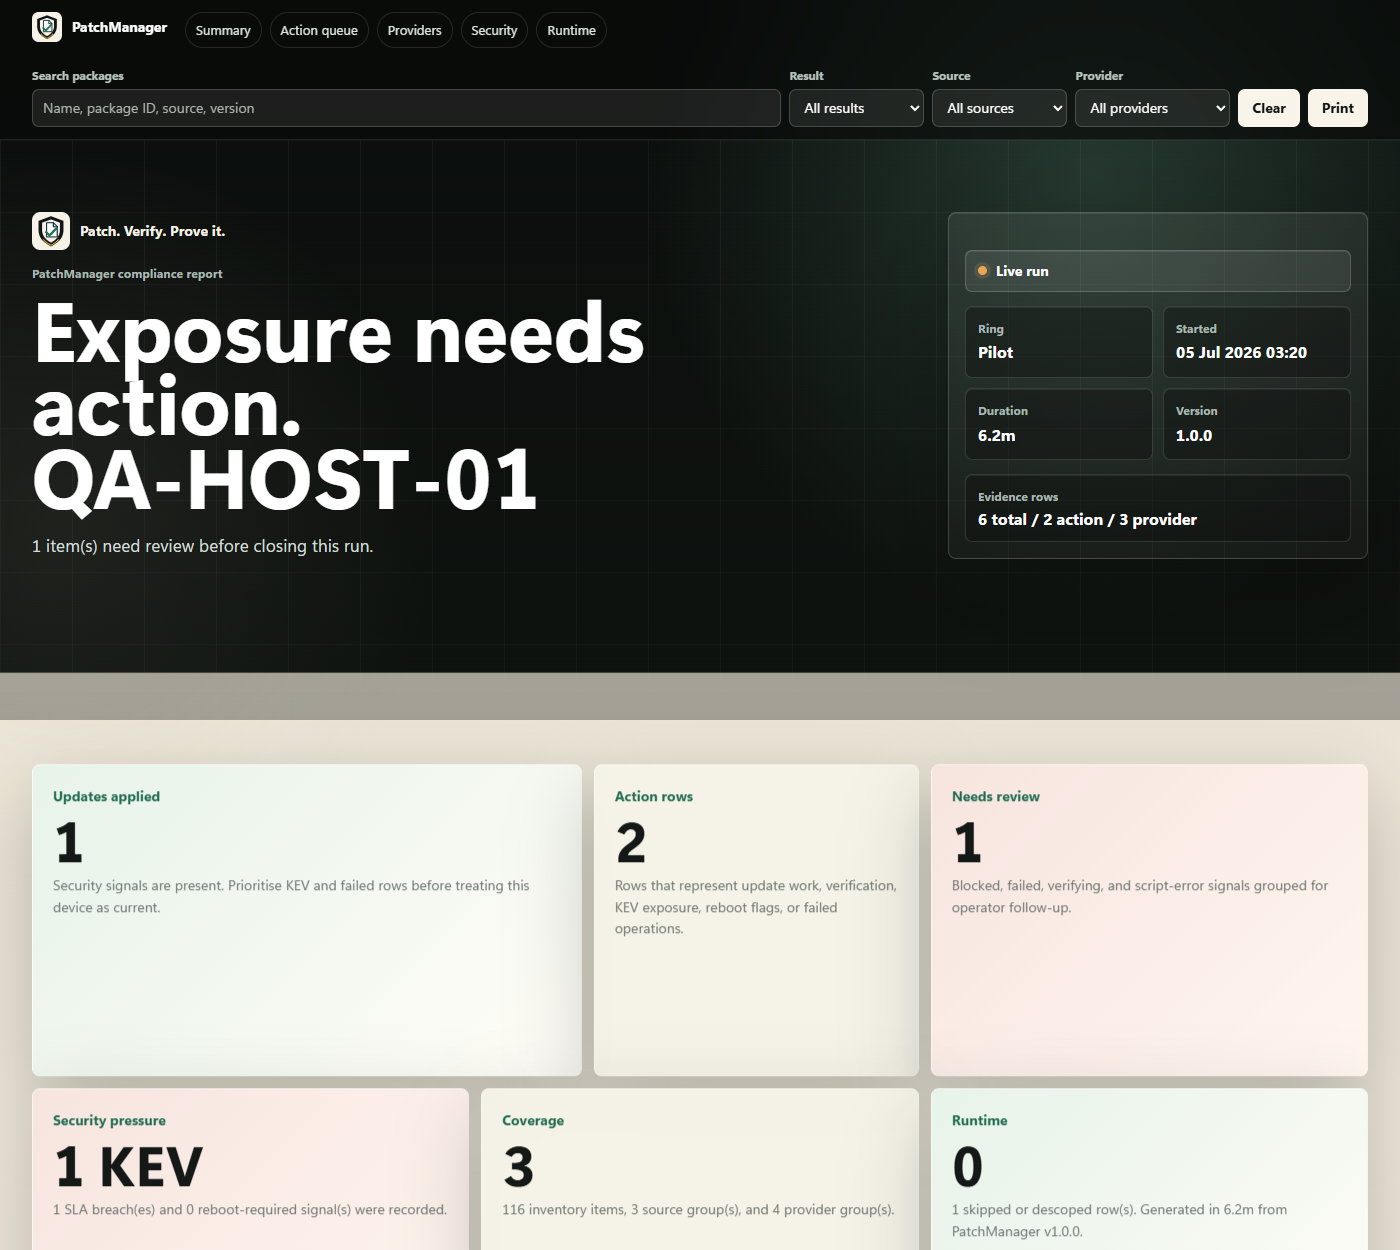
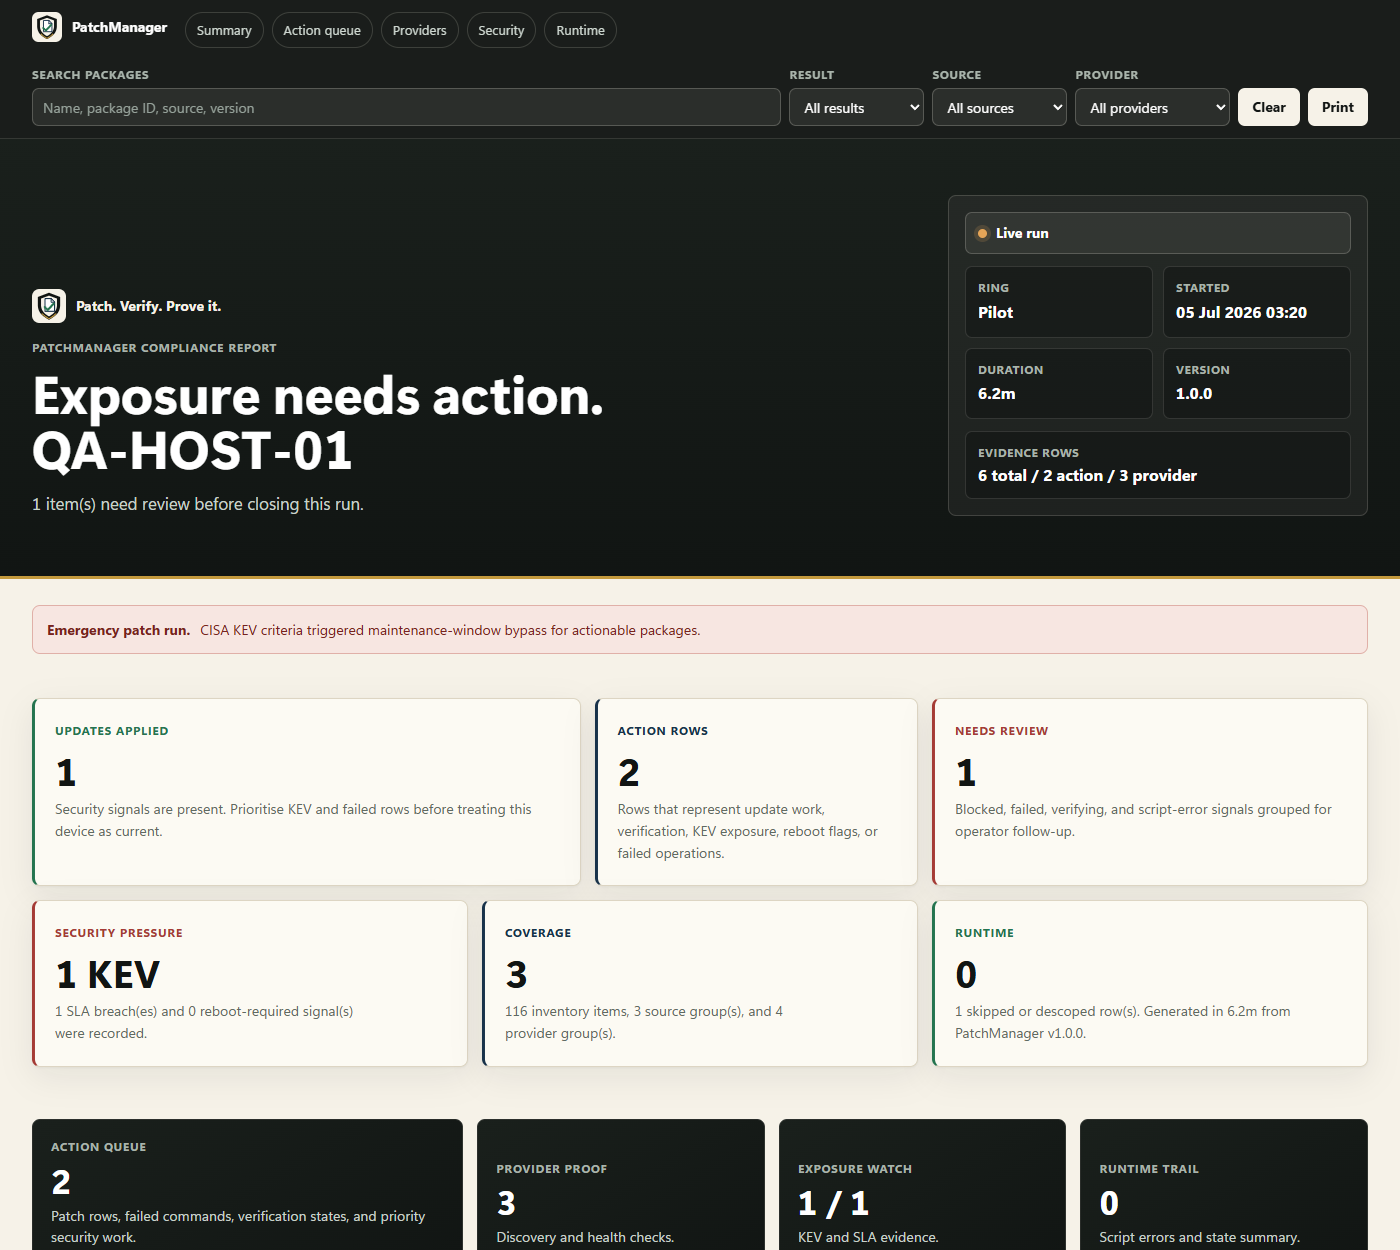
Release v1.1.1 branded reports

diff --git a/CHANGELOG.md b/CHANGELOG.md
@@ -4,6 +4,13 @@ All notable changes to PatchManager are documented here. The format follows
 [Keep a Changelog](https://keepachangelog.com/en/1.1.0/); versions follow
 [Semantic Versioning](https://semver.org/).
 
+## [1.1.1] - 2026-07-06
+
+### Changed
+- Refined generated HTML reports for local compliance and fleet dashboards with
+  the PatchManager brand system, audit-first layout, offline-safe assets,
+  no-script readability, print-safe content, and updated documentation samples.
+
 ## [1.1.0] - 2026-07-05
 
 ### Changed

diff --git a/README.md b/README.md
@@ -17,7 +17,7 @@ personal machine or as a fleet patching agent across a commercial estate with
 rings, maintenance windows, SLA tracking, CISA KEV emergency handling, and
 SIEM-ready event logging.
 
-> **Public beta (v1.1.0).** PatchManager runs elevated and changes installed
+> **Public beta (v1.1.1).** PatchManager runs elevated and changes installed
 > software. Read the script, review the configuration, and always start with a
 > dry run.
 